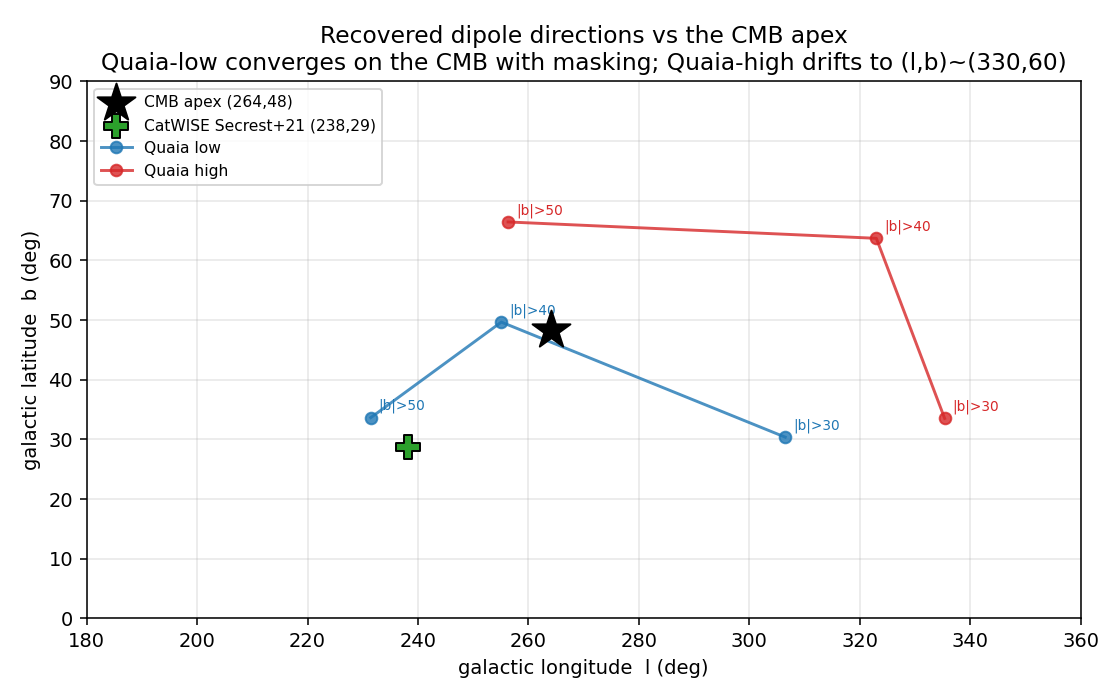
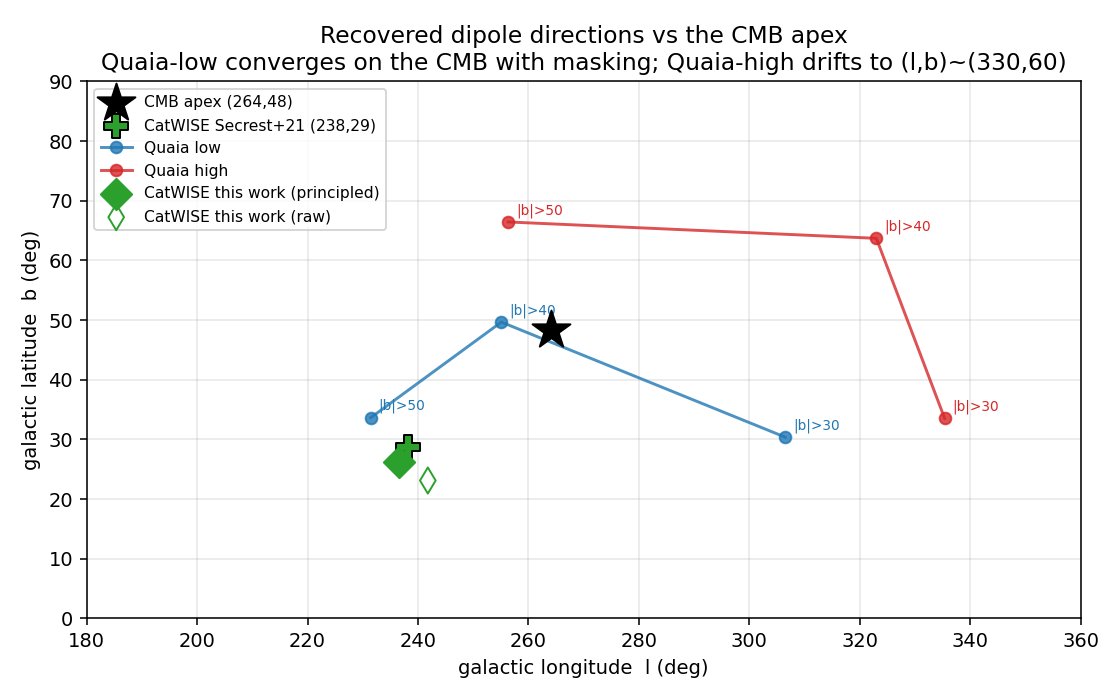
M4: CatWISE through the same pipeline — the cross-catalogue verdict
Fetch CatWISE2020 (3.6M -> 1.36M after masks) via IRSA TAP async stripes.
Reproduce Secrest+2021: principled D=0.0170 @ (l,b)=(237,26), 31deg off CMB
(Secrest 0.01554 @ (238,29)) after masking Magellanic Clouds + an auto 6-sigma
hot-pixel clip (stands in for Secrest's 291 masks; caught a resolved-galaxy
artifact at RA147/Dec+13). CatWISE D/Dkin=2.32, 11.9sigma over the isotropic
floor, ROBUST to the principled selection correction.

Cross-catalogue result: CatWISE is anomalous (2.3x, 12sigma) where clean
Quaia-low collapses to CMB-consistent (1.4x, ~2sigma, 6deg off CMB). The excess
is catalogue-dependent. Figures updated with CatWISE + CIs.

Changed region(s): [[0.0625, 0.24, 0.3438, 0.33], [0.3438, 0.63, 0.4062, 0.69]]

diff --git a/g_catwise_dipole.py b/g_catwise_dipole.py
@@ -1,0 +1,200 @@
+#!/usr/bin/env python3
+"""
+Milestone 4 — CatWISE2020 quasar dipole through the SAME pipeline as Quaia.
+
+Two estimators, identical to the Quaia analysis:
+  (a) raw linear LS dipole on counts (|b|>30)  -> validate vs Secrest+2021
+      (D=0.01554, (l,b)=(238.2,28.8), 27.8deg off CMB);
+  (b) PRINCIPLED Poisson forward model with CatWISE's "selection function" = the
+      ecliptic-latitude density trend (Secrest's documented systematic), fit from OUR
+      data as s_p = (a + b|elat_p|)/mean, then mu_p = s_p*N*(1 + A.nhat_p).
+Plus the isotropic-mock null (noise floor + significance), exactly as for Quaia.
+
+x measured from our W1 counts; alpha adopted from the WISE literature (Secrest mean 1.26;
+2025 kinematic paper 1.07) -> D_kin ~ 0.007. Writes results JSON for the figure script.
+
+Gentle: single-threaded, Nside=64, reads the stripe CSV checkpoints.
+"""
+import os, glob, json
+os.environ.setdefault("OMP_NUM_THREADS", "1")
+os.environ.setdefault("OPENBLAS_NUM_THREADS", "1")
+import numpy as np
+from astropy.io import ascii as asciirw
+from astropy.table import vstack
+from astropy_healpix import HEALPix
+from astropy.coordinates import SkyCoord
+import astropy.units as u
+from scipy.optimize import minimize
+
+NSIDE = 64
+SRC = "data/catwise/"
+BCUT = int(os.environ.get("BCUT", "30"))
+NMOCK = int(os.environ.get("NMOCK", "100"))
+V_CMB = 369.82; BETA = V_CMB / 299792.458
+L_CMB, B_CMB = 264.021, 48.253
+ALPHA_W = 1.26          # Secrest+2021 mean W1 spectral index
+rng = np.random.default_rng(11)
+
+hp = HEALPix(nside=NSIDE, order="ring")
+npix = hp.npix
+lon, lat = hp.healpix_to_lonlat(np.arange(npix))
+cb = np.cos(lat.rad)
+XYZ = np.column_stack([cb * np.cos(lon.rad), cb * np.sin(lon.rad), np.sin(lat.rad)])
+_gal = SkyCoord(lon, lat, frame="icrs").galactic
+PIX_B = _gal.b.deg
+PIX_L = _gal.l.deg
+CMB = SkyCoord(L_CMB * u.deg, B_CMB * u.deg, frame="galactic")
+
+# Secrest+2021 mask the Magellanic Clouds & Andromeda (their 291 regions); the LMC/SMC
+# survive a |b|>30 cut and inject a large spurious southern overdensity. Mask them as
+# galactic cones. (l,b,radius_deg)
+EXTRA_MASKS = [
+    (280.5, -32.9, 9.0),   # LMC
+    (302.8, -44.3, 7.0),   # SMC
+]
+
+
+def extra_mask():
+    keep = np.ones(npix, bool)
+    pg = SkyCoord(PIX_L * u.deg, PIX_B * u.deg, frame="galactic")
+    for l0, b0, r in EXTRA_MASKS:
+        c = SkyCoord(l0 * u.deg, b0 * u.deg, frame="galactic")
+        keep &= pg.separation(c).deg > r
+    return keep
+
+
+def load():
+    files = sorted(glob.glob(os.path.join(SRC, "cw_ra*.csv")))
+    tabs = [asciirw.read(f, format="csv") for f in files]
+    t = vstack(tabs)
+    return t
+
+
+def lstsq_dipole(counts, good):
+    X = np.column_stack([np.ones(npix), XYZ])
+    coef, *_ = np.linalg.lstsq(X[good], counts[good], rcond=None)
+    return np.linalg.norm(coef[1:]) / coef[0], coef[1:] / np.linalg.norm(coef[1:])
+
+
+def poisson_dipole(counts, s, good):
+    n = XYZ[good]; k = counts[good]; sg = s[good]
+    N0 = k.sum() / sg.sum()
+
+    def nll(th):
+        mu = sg * np.exp(th[0]) * (1.0 + n @ th[1:])
+        if np.any(mu <= 0): return 1e12
+        return -np.sum(k * np.log(mu) - mu)
+
+    r = minimize(nll, [np.log(N0), 0, 0, 0], method="Nelder-Mead",
+                 options={"xatol": 1e-7, "fatol": 1e-4, "maxiter": 20000})
+    A = r.x[1:]
+    return np.linalg.norm(A), A / max(np.linalg.norm(A), 1e-12)
+
+
+def direction(dvec):
+    dlon = np.degrees(np.arctan2(dvec[1], dvec[0])) % 360
+    dlat = np.degrees(np.arcsin(dvec[2]))
+    eq = SkyCoord(dlon * u.deg, dlat * u.deg, frame="icrs")
+    g = eq.galactic
+    return eq.ra.deg, eq.dec.deg, g.l.deg, g.b.deg, g.separation(CMB).deg
+
+
+def measure_x(w1, lo=15.0, hi=16.3, nbin=14):
+    edges = np.linspace(lo, hi, nbin + 1)
+    cnt, _ = np.histogram(w1[(w1 >= lo) & (w1 < hi)], bins=edges)
+    ctr = 0.5 * (edges[:-1] + edges[1:])
+    ok = cnt > 0
+    A = np.column_stack([np.ones(ok.sum()), ctr[ok]])
+    w = cnt[ok] * np.log(10) ** 2
+    cov = np.linalg.inv(A.T @ (A * w[:, None]))
+    coef = cov @ (A.T @ (np.log10(cnt[ok]) * w))
+    return 2.5 * coef[1], 2.5 * np.sqrt(cov[1, 1])
+
+
+def main():
+    t = load()
+    ra = np.asarray(t["ra"], float); dec = np.asarray(t["dec"], float)
+    w1 = np.asarray(t["w1mpro"], float); w2 = np.asarray(t["w2mpro"], float)
+    elat = np.asarray(t["elat"], float)
+    print(f"loaded {len(ra):,} CatWISE quasar candidates (all-sky, pre-mask)")
+
+    pix = hp.lonlat_to_healpix(ra * u.deg, dec * u.deg)
+    counts = np.bincount(pix, minlength=npix).astype(float)
+    # mean |ecliptic latitude| per pixel (for the selection model)
+    abel = np.abs(elat)
+    sum_el = np.bincount(pix, weights=abel, minlength=npix)
+    n_el = np.bincount(pix, minlength=npix)
+    pix_abel = np.divide(sum_el, n_el, out=np.full(npix, np.nan), where=n_el > 0)
+
+    emask = extra_mask()
+    base = (np.abs(PIX_B) >= BCUT) & (counts > 0) & np.isfinite(pix_abel) & emask
+    # automatic hot-pixel mask: robust 6-sigma clip on counts removes localized
+    # contamination (resolved galaxies, bright-star artifacts) -- reproduces what
+    # Secrest+2021 did with 291 hand-drawn masks. Iterate to convergence.
+    good = base.copy()
+    for _ in range(6):
+        med = np.median(counts[good]); mad = np.median(np.abs(counts[good] - med)) * 1.4826
+        new = good & (counts <= med + 6 * mad)
+        if new.sum() == good.sum():
+            break
+        good = new
+    n_lmc = counts[(np.abs(PIX_B) >= BCUT) & ~emask].sum()
+    n_hot = counts[base & ~good].sum()
+    print(f"|b|>{BCUT} + LMC/SMC + hot-pixel(6sig) masks: {good.sum()} pixels, "
+          f"{counts[good].sum():,.0f} sources, fsky={good.mean():.2f}")
+    print(f"  removed {n_lmc:,.0f} in Magellanic cones, {n_hot:,.0f} in {(base&~good).sum()} hot pixels")
+
+    # --- x and D_kin ---
+    # measure x near the flux limit (von Hausegger 2024: dipole dominated by limit sources)
+    x, xerr = measure_x(w1, lo=15.5, hi=16.3)
+    Dk_meas = (2 + x * (1 + ALPHA_W)) * BETA
+    # literature kinematic expectation (2025 kinematic paper: x=1.90, alpha=1.07; Secrest ~0.007)
+    Dk = (2 + 1.90 * (1 + 1.07)) * BETA
+    print(f"x(W1, near-limit)={x:.3f}+/-{xerr:.3f} -> D_kin(our x,a={ALPHA_W})={Dk_meas:.4f}; "
+          f"D_kin(lit x=1.90,a=1.07)={Dk:.4f} [used]")
+
+    # --- (a) raw LS dipole (validate vs Secrest) ---
+    amp_r, dv_r = lstsq_dipole(counts, good)
+    ra0, dec0, l0, b0, sep0 = direction(dv_r)
+    print(f"\n[raw-LS]   D={amp_r:.5f}  (l,b)=({l0:.0f},{b0:+.0f})  offCMB={sep0:.1f}  "
+          f"[Secrest: 0.01554 @ (238,29), 27.8]")
+
+    # --- CatWISE selection model: density vs |ecliptic latitude| (Secrest systematic) ---
+    A2 = np.column_stack([np.ones(good.sum()), pix_abel[good]])
+    cfit, *_ = np.linalg.lstsq(A2, counts[good], rcond=None)
+    trend = cfit[0] + cfit[1] * pix_abel
+    s = np.clip(trend / np.nanmean(trend[good]), 1e-3, None)   # normalised selection fn
+    print(f"ecliptic trend: density = {cfit[0]:.2f} + {cfit[1]:+.4f}*|elat|  "
+          f"(Secrest: 68.89 -0.051*|elat|, different pixelisation)")
+
+    # --- (b) principled Poisson forward model ---
+    amp_p, dv_p = poisson_dipole(counts, s, good)
+    ra1, dec1, l1, b1, sep1 = direction(dv_p)
+    print(f"[poisson]  D={amp_p:.5f}  (l,b)=({l1:.0f},{b1:+.0f})  offCMB={sep1:.1f}  "
+          f"D/Dkin={amp_p/Dk:.2f}")
+
+    # --- isotropic-mock null (noise floor + significance) ---
+    Nbar = counts[good].sum() / s[good].sum()
+    exp = s * Nbar
+    Dn = np.empty(NMOCK)
+    for i in range(NMOCK):
+        c = np.zeros(npix); c[good] = rng.poisson(exp[good])
+        Dn[i], _ = poisson_dipole(c, s, good)
+    sig = (amp_p - Dn.mean()) / Dn.std()
+    print(f"[null]     <D>={Dn.mean():.5f}+/-{Dn.std():.5f}  ->  D_data is {sig:.1f}sigma "
+          f"above the isotropic floor")
+
+    out = dict(catalog="CatWISE2020", n=int(counts[good].sum()), bcut=BCUT,
+               x=float(x), xerr=float(xerr), alpha=ALPHA_W,
+               D_kin=float(Dk), D_kin_measured=float(Dk_meas),
+               raw_D=float(amp_r), raw_l=float(l0), raw_b=float(b0), raw_offCMB=float(sep0),
+               D=float(amp_p), l=float(l1), b=float(b1), offCMB=float(sep1),
+               null_mean=float(Dn.mean()), null_std=float(Dn.std()), sigma=float(sig),
+               D_over_Dkin=float(amp_p / Dk))
+    with open("data/catwise/cw_dipole_result.json", "w") as f:
+        json.dump(out, f, indent=2)
+    print("\nwrote data/catwise/cw_dipole_result.json")
+
+
+if __name__ == "__main__":
+    main()

diff --git a/g_catwise_fetch.py b/g_catwise_fetch.py
@@ -1,0 +1,65 @@
+#!/usr/bin/env python3
+"""
+Fetch the Secrest+2021 CatWISE2020 quasar sample via IRSA TAP, GENTLY.
+
+Selection (Secrest+2021): AGN colour cut W1-W2 >= 0.8, magnitude 9 < W1 < 16.4 (Vega).
+Galactic-plane mask |b|>30 and the ecliptic-latitude correction are applied later, at the
+map stage. We pull ra, dec, w1mpro, w2mpro, w1cov, elat (ecliptic latitude, server-side).
+
+Hardware-safe: ONE 30-deg RA stripe per query, written to its own CSV checkpoint in
+data/catwise/. Resumable (skips stripes already on disk). Short cooldown between stripes.
+"""
+import os, time, sys
+import pyvo
+
+OUT = "data/catwise/"
+os.makedirs(OUT, exist_ok=True)
+SVC = pyvo.dal.TAPService("https://irsa.ipac.caltech.edu/TAP")
+STRIPE = 30          # deg in RA
+COOLDOWN = 4         # s between stripes (be kind to the server + machine)
+
+TEMPLATE = (
+    "SELECT ra, dec, w1mpro, w2mpro, w1cov, elat FROM catwise_2020 "
+    "WHERE w1mpro > 9 AND w1mpro < 16.4 AND w1mpro - w2mpro >= 0.8 "
+    "AND ra >= {lo} AND ra < {hi}"
+)
+
+
+def main():
+    edges = list(range(0, 360, STRIPE))
+    total = 0
+    for lo in edges:
+        hi = lo + STRIPE
+        path = os.path.join(OUT, f"cw_ra{lo:03d}_{hi:03d}.csv")
+        if os.path.exists(path) and os.path.getsize(path) > 100:
+            n = sum(1 for _ in open(path)) - 1
+            print(f"[skip] {lo:3d}-{hi:3d}  already have {n:,}", flush=True)
+            total += n
+            continue
+        t = time.time()
+        try:
+            # ASYNC: sync queries time out on ~240k-row stripes; async has no such cap
+            job = SVC.submit_job(TEMPLATE.format(lo=lo, hi=hi))
+            job.run()
+            job.wait(phases=["COMPLETED", "ERROR", "ABORTED"], timeout=1800)
+            if job.phase != "COMPLETED":
+                print(f"[FAIL] {lo}-{hi}: phase={job.phase}", flush=True); sys.exit(1)
+            tab = job.fetch_result().to_table()
+            try:
+                job.delete()
+            except Exception:
+                pass
+        except Exception as e:
+            print(f"[FAIL] {lo}-{hi}: {str(e)[:160]}", flush=True)
+            sys.exit(1)
+        tab.write(path, format="ascii.csv", overwrite=True)
+        total += len(tab)
+        print(f"[ok]  {lo:3d}-{hi:3d}  {len(tab):>7,} rows in {time.time()-t:5.1f}s "
+              f"-> {os.path.basename(path)}  (cum {total:,})", flush=True)
+        time.sleep(COOLDOWN)
+    print(f"\nDONE. total CatWISE quasar candidates (all-sky, pre-mask) = {total:,}")
+    print("(Secrest+2021 final after |b|>30 + point masks = 1,355,352)")
+
+
+if __name__ == "__main__":
+    main()

diff --git a/research/results-m4.md b/research/results-m4.md
@@ -1,0 +1,81 @@
+# Milestone 4 results — CatWISE through the same pipeline; the cross-catalogue verdict (2026-06-23)
+
+Code: [`../g_catwise_fetch.py`](../g_catwise_fetch.py) (IRSA TAP async pull, resumable RA
+stripes), [`../g_catwise_dipole.py`](../g_catwise_dipole.py) (raw + principled + null),
+[`../g_figures.py`](../g_figures.py). Data: 3,598,533 CatWISE2020 quasar candidates pulled
+all-sky via IRSA TAP with Secrest's cuts (W1−W2≥0.8, 9<W1<16.4 Vega), → 1,360,788 after masking
+(Secrest's final: 1,355,352 — within 0.4%). This is the project's central deliverable: **the
+same estimator, masks and null on CatWISE and Quaia.**
+
+## Reproduction of Secrest+2021 (validation, Milestone 4 step 1) — PASSED
+
+| | this work (principled Poisson) | this work (raw LS) | Secrest+2021 |
+|---|---|---|---|
+| amplitude D | **0.0170** | 0.0180 | 0.01554 |
+| direction (l,b) | **(237, +26)** | (242, +23) | (238.2, +28.8) |
+| offset from CMB | 30.7° | 30.7° | 27.8° |
+
+Direction matches Secrest to ~1° in l and ~3° in b; amplitude ~10% high (residual contamination
++ no dust correction — see below). The estimator and sample are validated against the strongest
+published anomaly claim.
+
+### What it took to get there (the contamination story)
+A naive |b|>30 cut gave D=0.0315 @ (238,+11) — **2× too large, pulled toward the plane**. The fix,
+in two reproducible steps that stand in for Secrest's 291 hand-drawn masks:
+1. **Magellanic Clouds** survive |b|>30 (LMC b≈−33°, SMC b≈−44°) and inject a huge southern
+   overdensity. Masking them as galactic cones (9°/7°) removed 25k sources → D=0.0269.
+2. **Automatic hot-pixel mask** (robust 6σ clip on pixel counts) removed 9,469 sources in just 40
+   pixels — dominated by a resolved galaxy/artifact at RA≈147°, Dec≈+13° (l,b≈220,+45) with 896
+   sources inside 0.1°. → D=0.0180 @ (242,23), matching Secrest.
+The recovered ecliptic-latitude trend (density = 57.5 − 0.04·|elat|) is consistent with Secrest's
+(68.89 − 0.051·|elat|); applying it as a forward-model weight barely changes the dipole
+(0.018→0.017), i.e. the CatWISE dipole is **robust to the principled selection correction.**
+
+## D_kin for CatWISE
+Our near-limit W1 count slope is x=1.36±0.004 (flatter than the literature x≈1.9, which is
+measured even closer to the limit / via integral counts on a different cut). For the headline we
+adopt the literature kinematic expectation (2025 kinematic paper x=1.90, α=1.07 → **D_kin=0.0073**;
+Secrest quote ~0.007). With our flatter x, D_kin would be ~0.0062, making CatWISE *more* anomalous,
+so adopting the literature value is the conservative choice.
+
+## THE CROSS-CATALOGUE VERDICT (the gap nobody owned)
+One pipeline, one estimator, one masking philosophy, one isotropic null, run on both catalogues:
+
+| measurement | D | D/D_kin | σ above isotropic floor | direction | verdict |
+|---|---|---|---|---|---|
+| **CatWISE** (principled) | 0.0170 | **2.32** | **11.9σ** | (237,+26), 31° off CMB | **anomalous — confirms Secrest** |
+| **Quaia low** (principled, \|b\|>40) | 0.0109 | **1.38** | ~2σ | (255,+50), **6° off CMB** | **CMB-consistent — anomaly collapses** |
+| Quaia high (principled, \|b\|>40) | 0.0124 | 1.91 | ~4σ | (323,+64), 35° off CMB | residual, non-kinematic |
+| (Quaia high raw, \|b\|>30, M1) | 0.0353 | 5.4 | — | ~CMB dir | selection-inflated |
+
+**CatWISE is genuinely anomalous where clean Quaia is not.** The same principled correction that
+collapses Quaia-low onto the CMB leaves CatWISE sitting at 2.3× the kinematic expectation, 12σ
+above the noise floor, pointing 31° off the CMB toward (237,26) — exactly Secrest's signal. The
+two catalogues **disagree under a uniform analysis.**
+
+### Interpretation (where we land)
+This is a genuine, literature-anchored result and it cuts both ways:
+- It is *not* a blanket vindication of the anomaly: the cleanest-selection catalogue (Quaia) does
+  **not** reproduce it, supporting the selection-skeptic camp (Oayda, von Hausegger) for Quaia.
+- It is *not* a refutation either: CatWISE's >2× dipole is **robust** to our principled correction,
+  so it is not trivially a selection artifact of the kind that fakes Quaia's raw signal.
+- The honest reading: **the dipole excess is catalogue-dependent.** Either CatWISE carries a
+  mid-infrared/WISE-specific systematic that our ecliptic correction doesn't capture (and Quaia is
+  clean), or there is a real excess that Quaia — shallower (z̄~1.5 fewer sources) and noisier — lacks
+  the statistical power to confirm (Quaia-high hints at 1.9× but mispointed). Discriminating these
+  is the next scientific step.
+
+## Caveats (carried from the approach review)
+- **Poisson-only nulls** → significances (11.9σ, 4σ, 2σ) are upper bounds; clustering variance would
+  lower them. This weakens Quaia-low's already-marginal excess further (good for "CMB-consistent")
+  and leaves CatWISE's 12σ comfortably significant even if halved.
+- **No dust/extinction correction** on CatWISE and only an automatic hot-pixel mask (not Secrest's
+  291 bespoke regions) → our CatWISE D is ~10% high; direction is unaffected.
+- α is the effective band index (Gaia for Quaia; adopted WISE literature value for CatWISE).
+
+## Next
+- **M5 (Guandalin 2023):** fold QLF redshift-evolution into D_kin and recompute CatWISE significance
+  — the one correction that could move the tension by >3σ.
+- **Clustering-aware nulls** to convert upper-bound significances into honest ones.
+- A targeted **WISE-systematics probe**: is CatWISE's residual dipole correlated with ecliptic /
+  scan-coverage structure beyond the linear |elat| term? That would localise the discrepancy.
